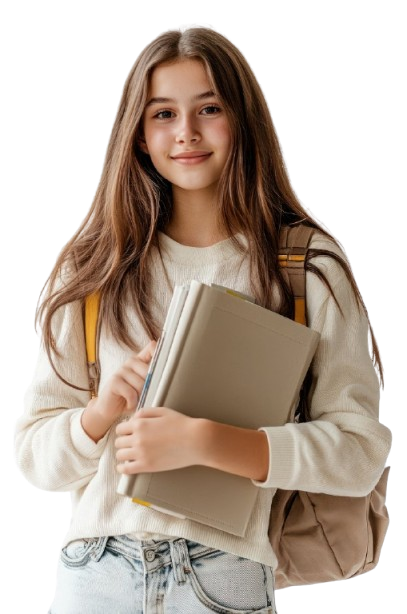
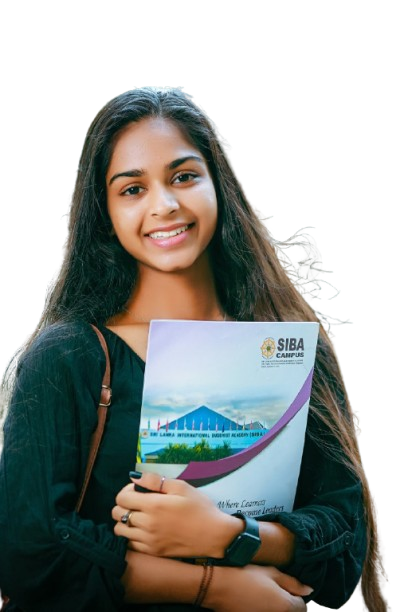
feat: update HeroIllustration and change Landing background

diff --git a/frontend/src/components/HeroIllustration.jsx b/frontend/src/components/HeroIllustration.jsx
@@ -6,7 +6,7 @@ const HeroIllustration = () => {
             <div className="absolute bottom-[-20%] w-[65vh] h-[65vh] rounded-full border-[20px] border-white/5 pointer-events-none z-0"></div>
             <div className="absolute bottom-[-30%] w-[90vh] h-[90vh] rounded-full border-[20px] border-white/5 pointer-events-none z-0"></div>
             <img 
-                src="/student.jpg" 
+                src="/student.png" 
                 alt="Student" 
                 className="relative z-10 h-full w-auto object-contain object-bottom drop-shadow-[0_20px_30px_rgba(0,0,0,0.2)]"
             />

diff --git a/frontend/src/pages/Landing.jsx b/frontend/src/pages/Landing.jsx
@@ -10,7 +10,7 @@ const Landing = () => {
     const [activeModal, setActiveModal] = useState(null); 
 
     return (
-        <div className="h-screen w-full bg-primary relative overflow-hidden font-sans flex flex-col">
+        <div className="h-screen w-full bg-gradient-to-br from-blue-400 via-blue-400 to-blue-500 relative overflow-hidden font-sans flex flex-col">
             <style>{`
                 @keyframes float {
                     0%, 100% { transform: translateY(0px); }
